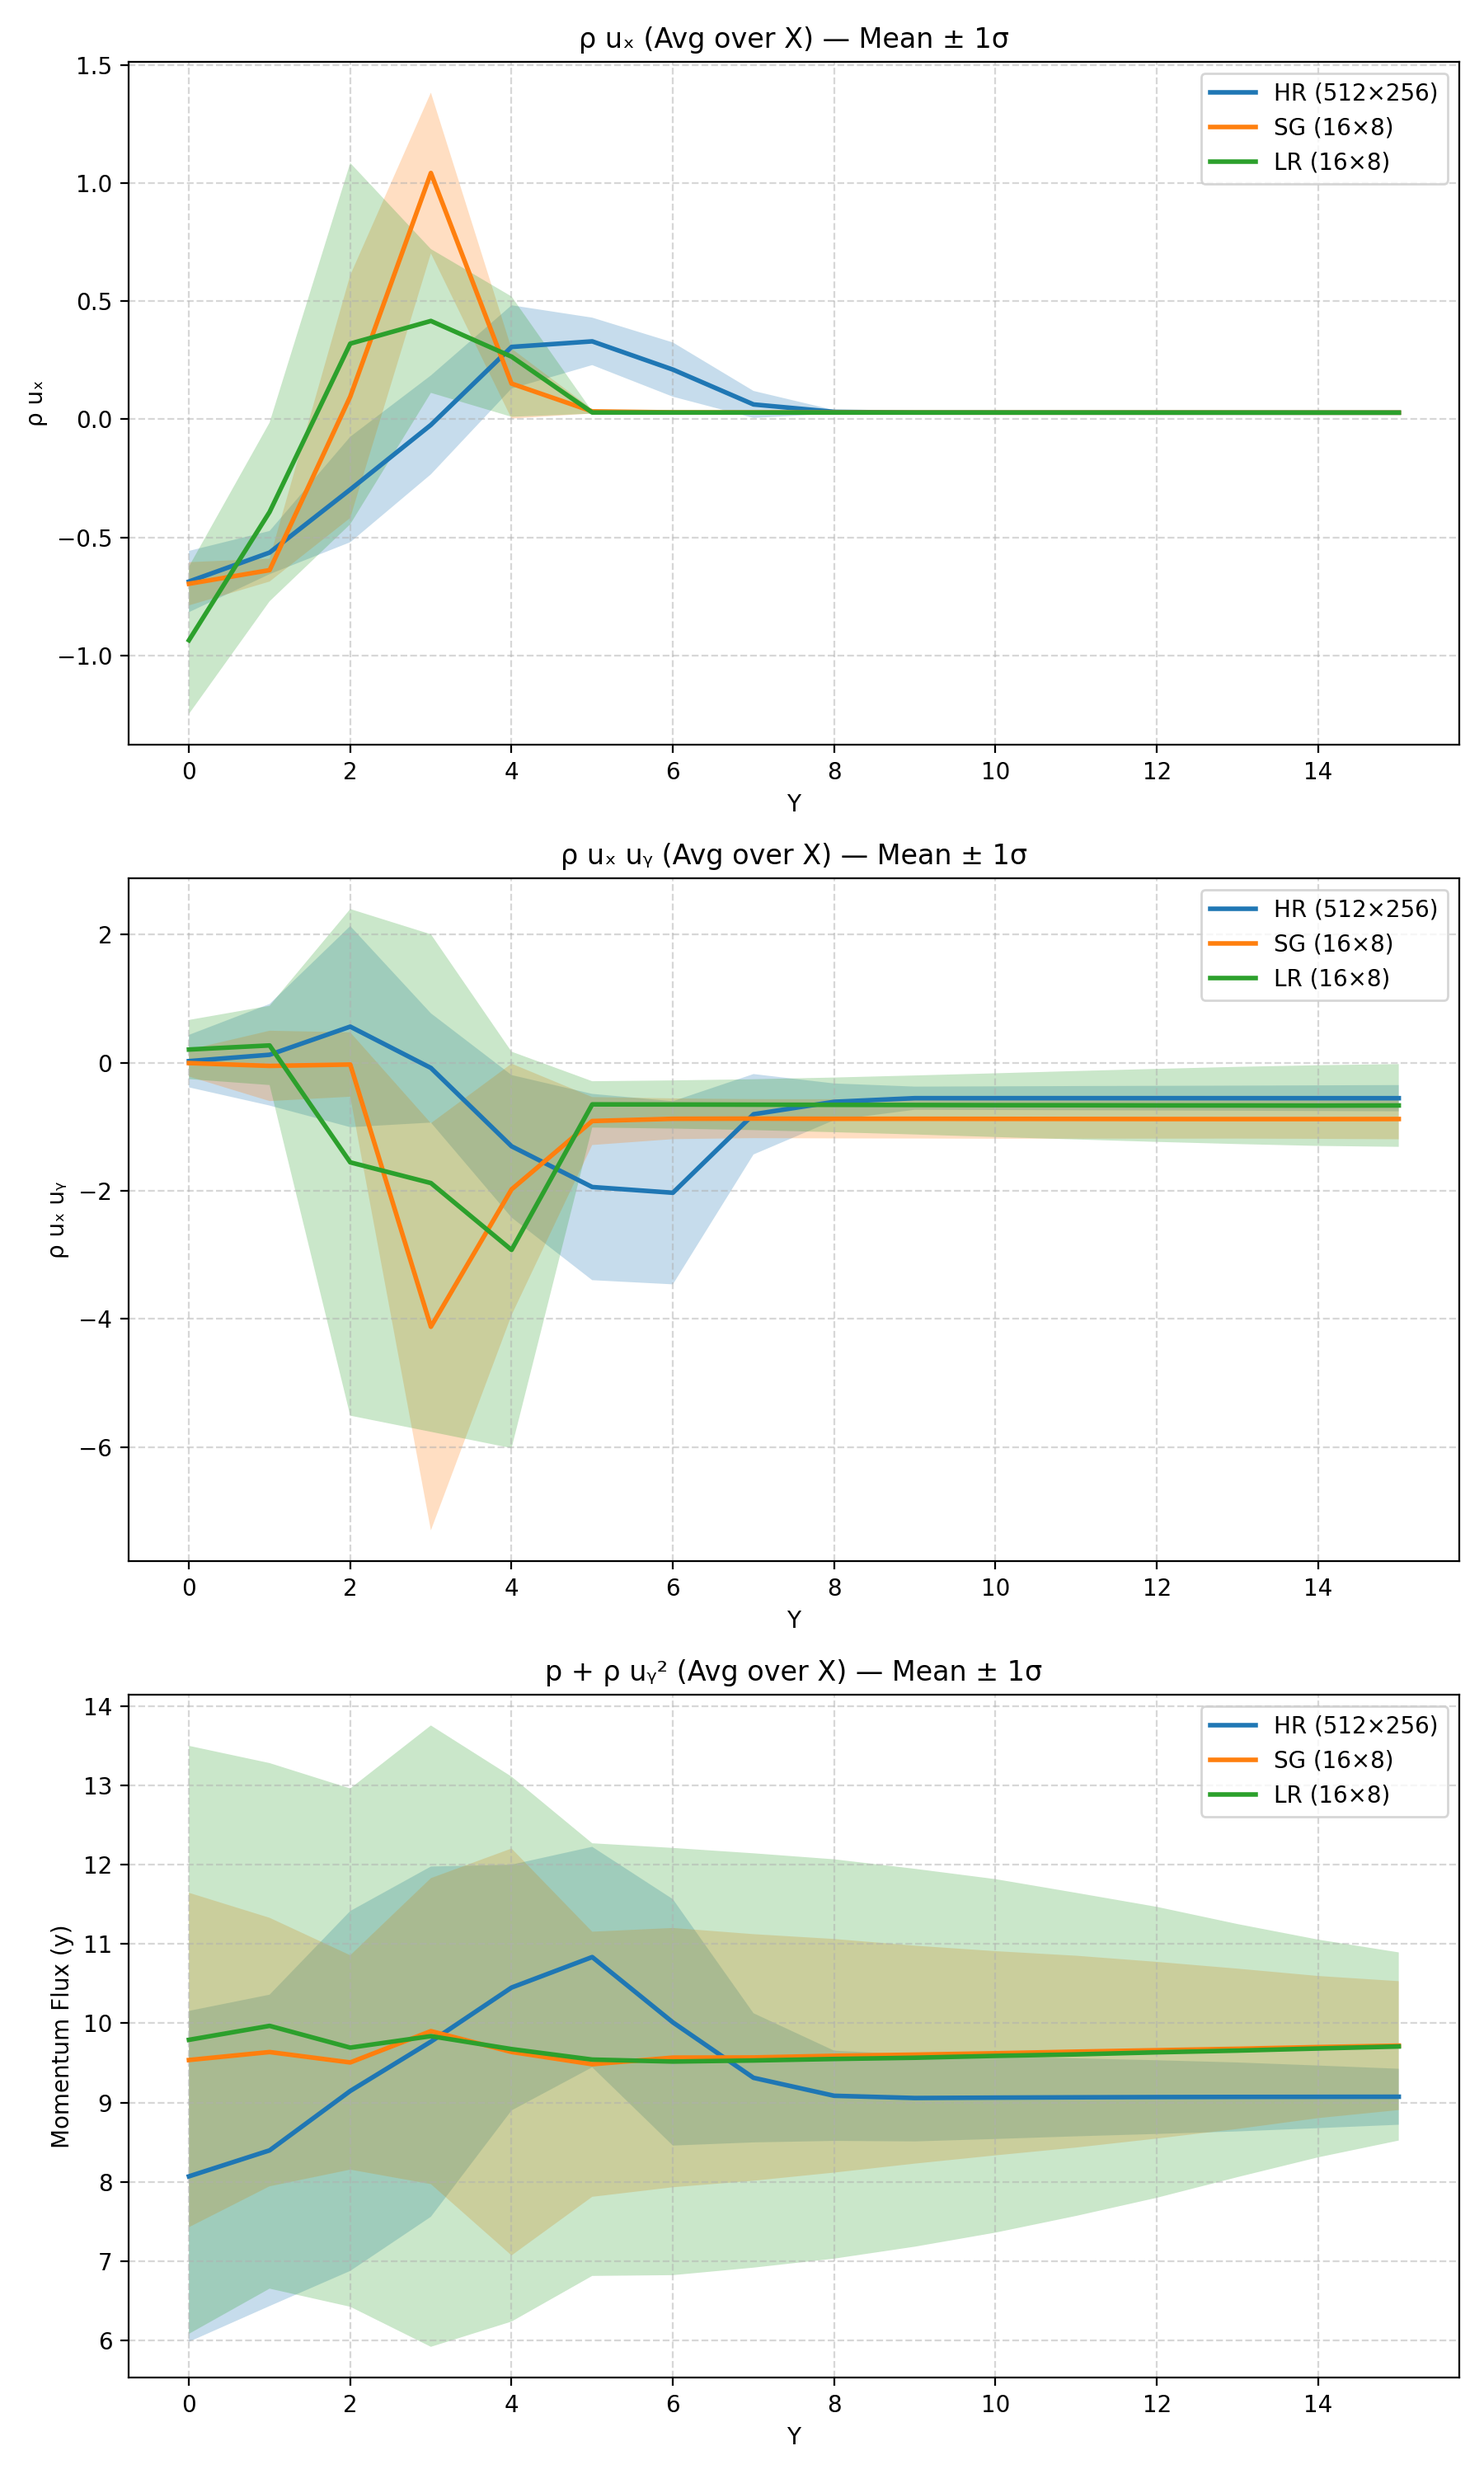
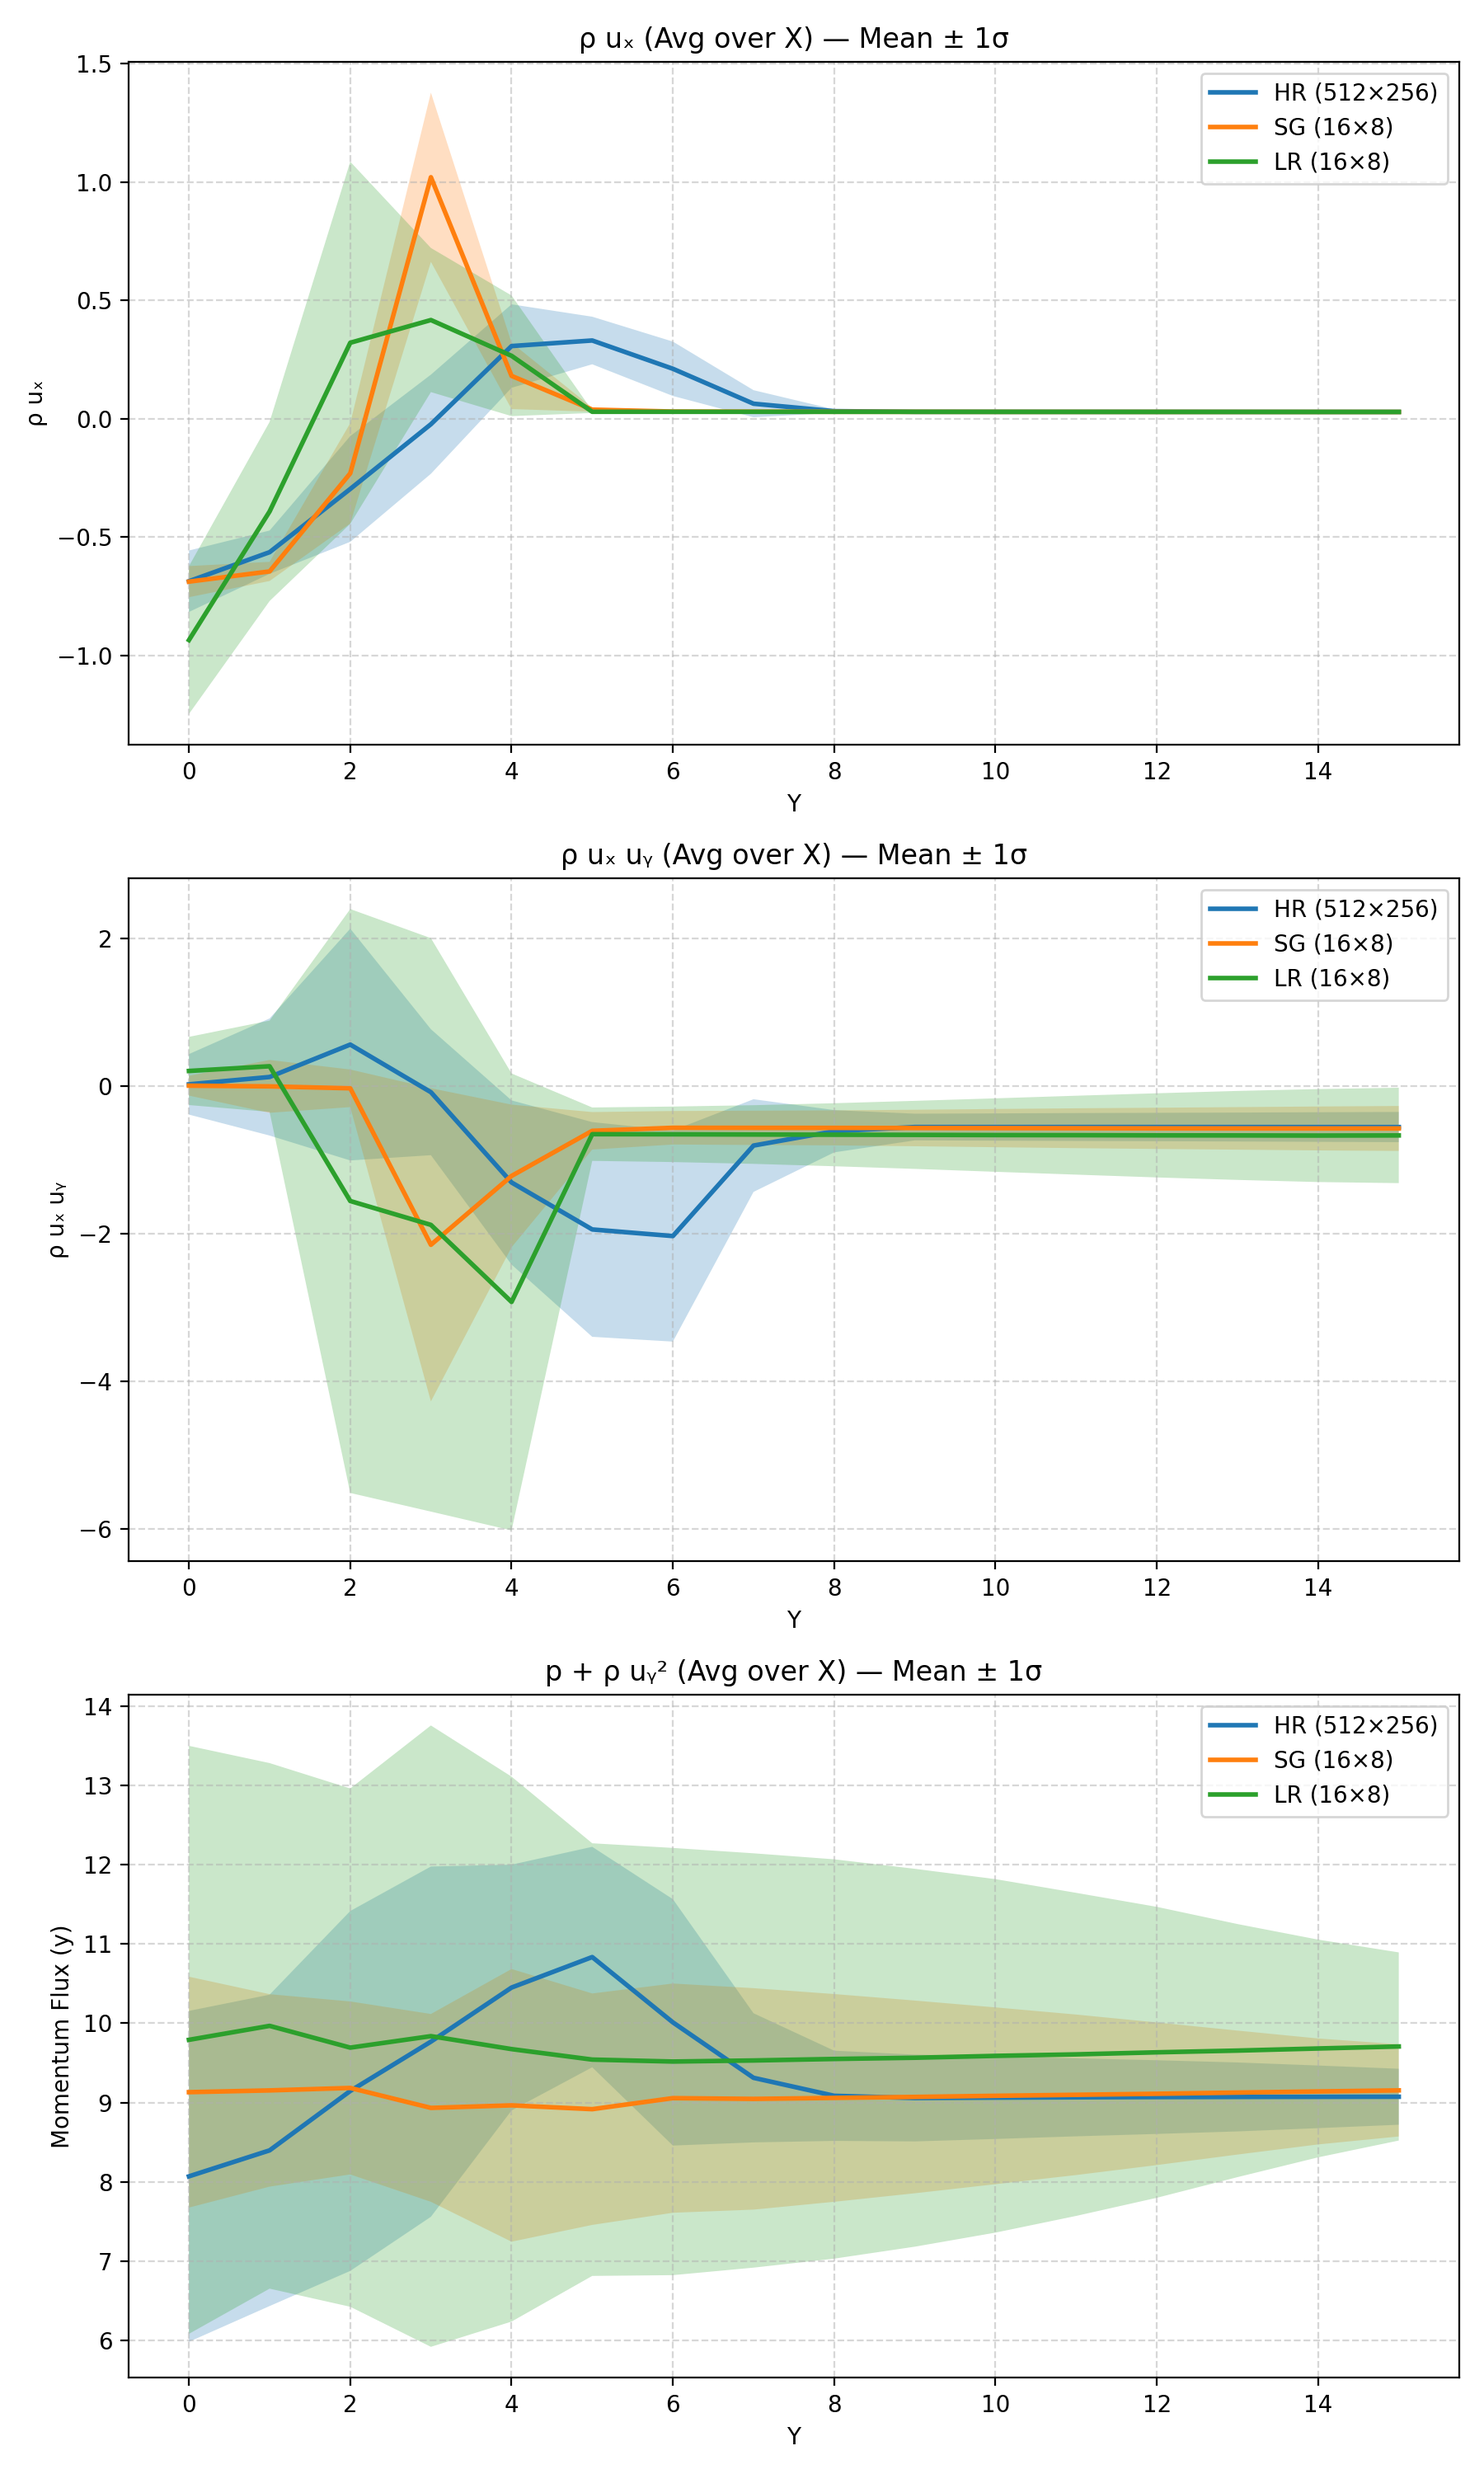
smoothed

diff --git a/AthenaK_legacy/sd_build/src/source_module.py b/AthenaK_legacy/sd_build/src/source_module.py
@@ -1015,24 +1015,11 @@ def source_func(rho, pres, ux, uy, ps, fmcl):
     source_term[3] = - cool_rate
 
     for channel in range(3, 4, 1):
-        # v = source_term[channel]
-        # w = np.clip((np.abs(v)-np.percentile(np.abs(v),75)) / (np.percentile(np.abs(v),90)-np.percentile(np.abs(v),75)+1e-12), 0, 1)
-        # A, B = gaussian_filter(v, 0.0), gaussian_filter(v, 5.0)
-        # source_term[channel] = (1 - w) * A + w * B
 
         v = source_term[channel]
-
-        mag = np.abs(v)
-
-        m0 = np.median(mag)
-        s0 = np.std(mag)
-
-        w = 1 / (1 + np.exp(-(mag - m0)/(s0 + 1e-12)))
-
-        A = gaussian_filter(v, 0.0)
-        B = gaussian_filter(v, 1.0)
-
-        source_term[channel] = (1 - w)*A + w*B
+        w = np.clip((np.abs(v)-np.percentile(np.abs(v),75)) / (np.percentile(np.abs(v),90)-np.percentile(np.abs(v),75)+1e-12), 0, 1)
+        A, B = gaussian_filter(v, 0.0), gaussian_filter(v, kernel_size/3)
+        source_term[channel] = (1 - w) * A + w * B
 
     final_term = np.transpose(source_term, axes=(0, 2, 1))
     return final_term.reshape(5, -1)
